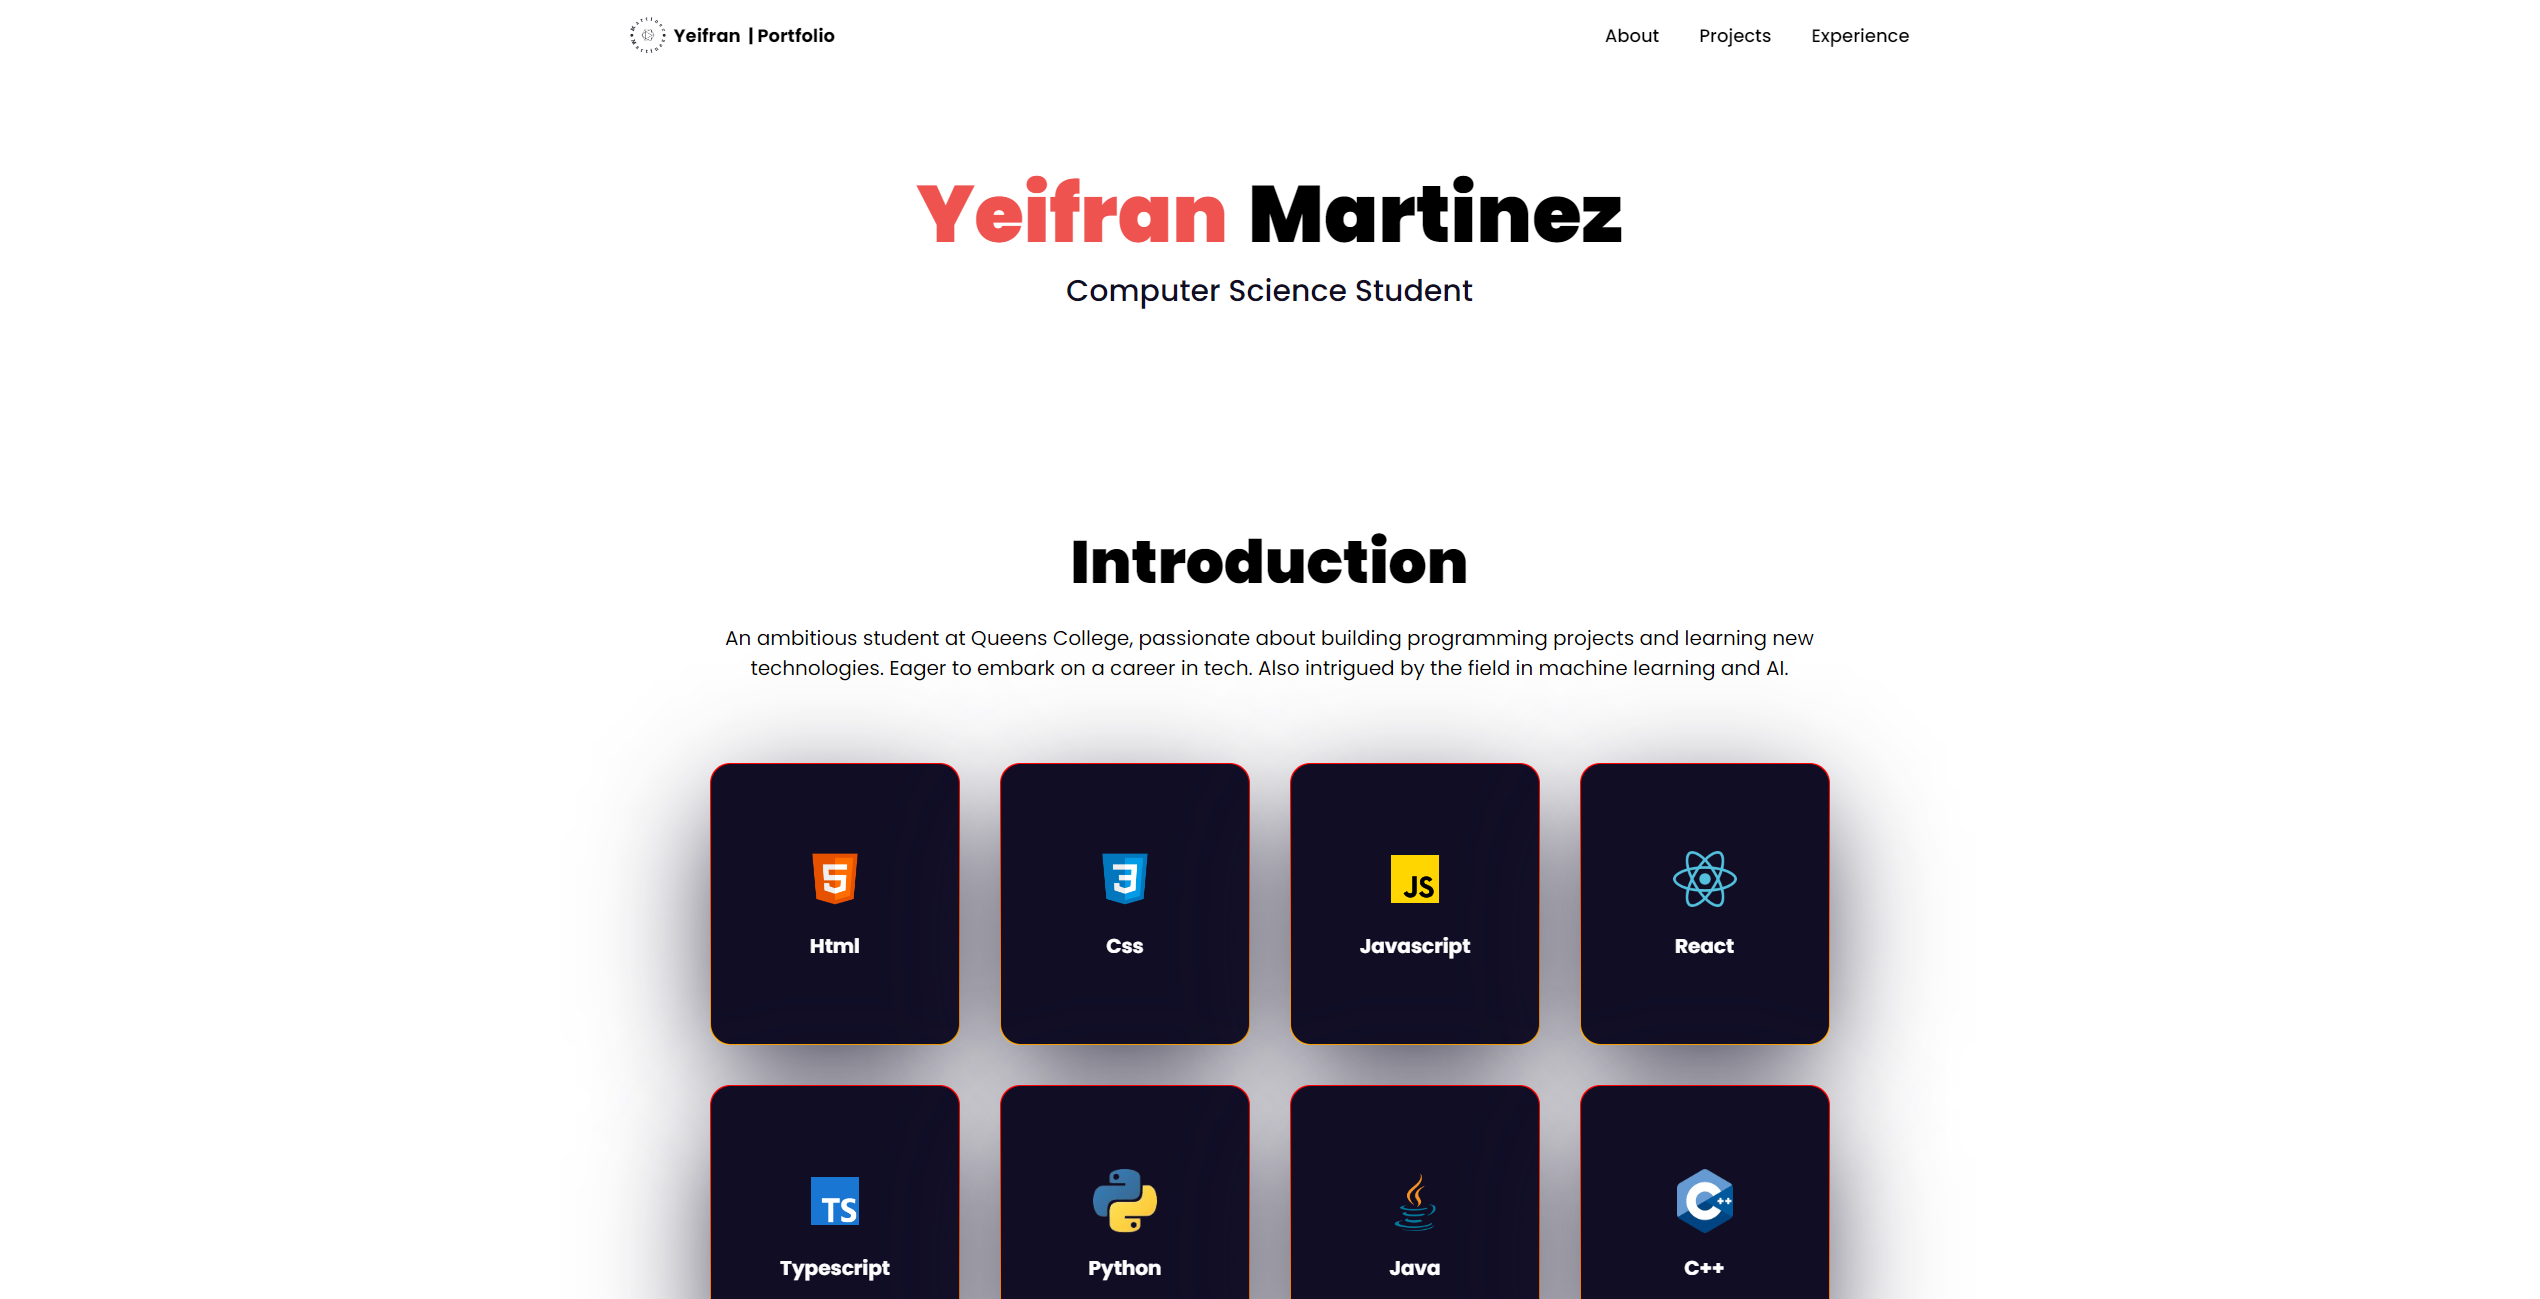
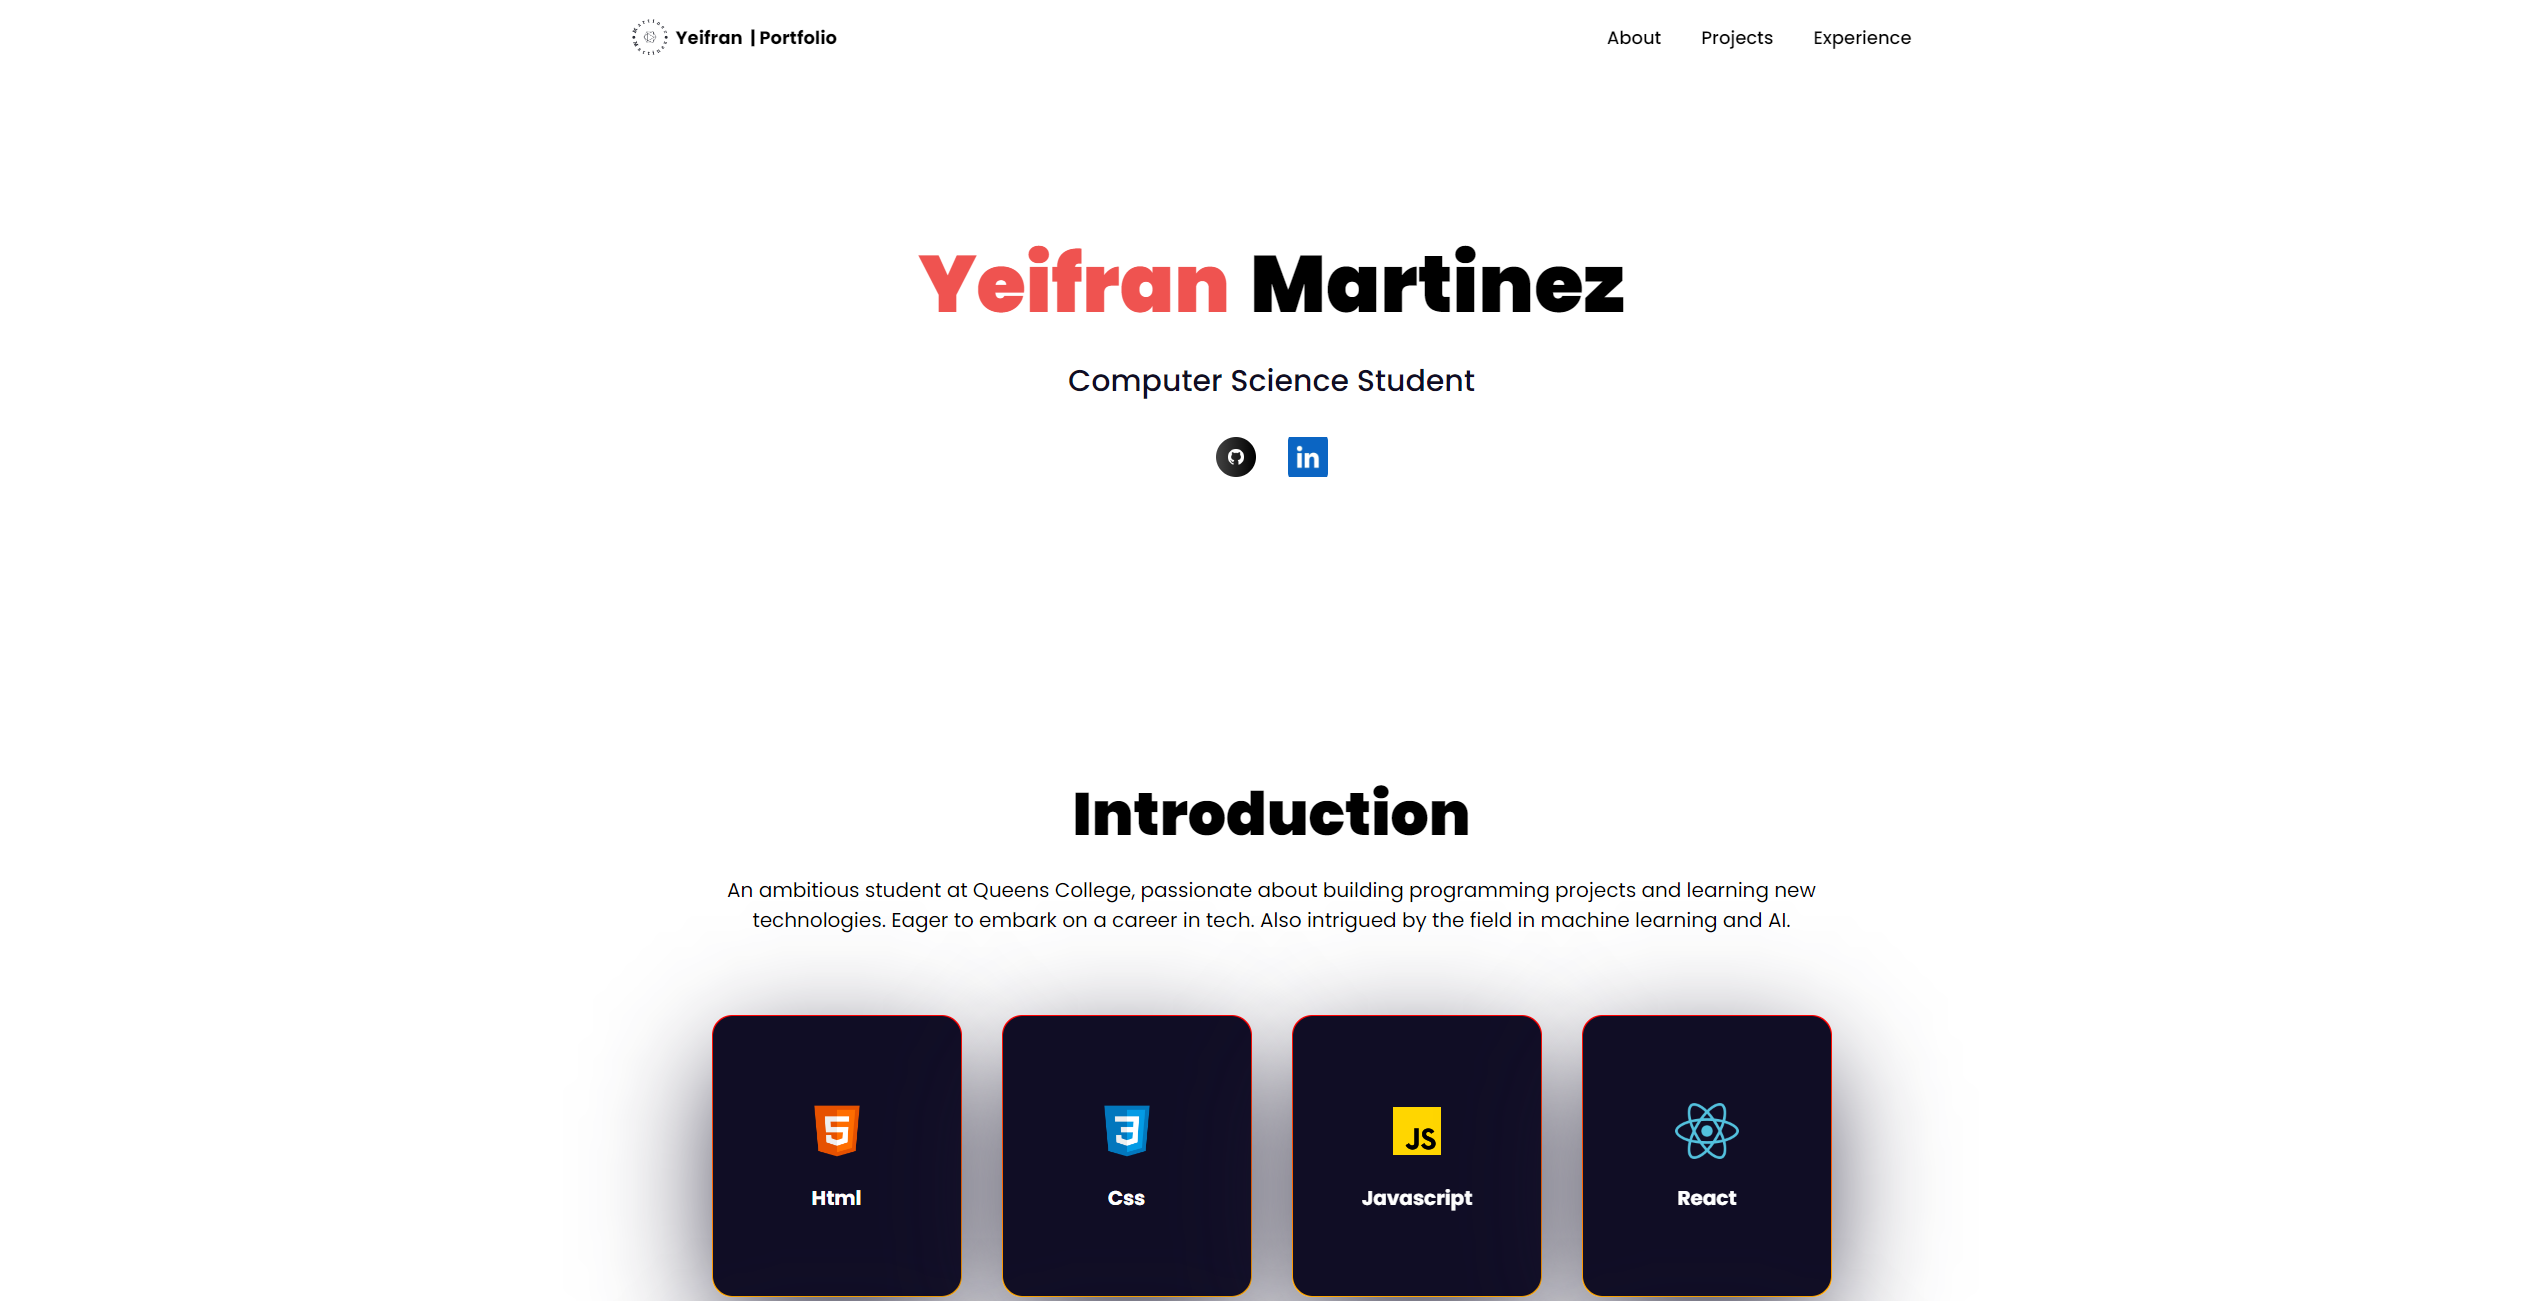
update

diff --git a/src/constants/index.js b/src/constants/index.js
@@ -64,62 +64,6 @@ import {
       icon: cpp,
     }
   ];
-
-  
-  const experiences = [
-    {
-      title: "COMING SOON",
-      company_name: "COMPANY",
-      icon: comingsoon,
-      iconBg: "#383E56",
-      date: "COMING SOON",
-      points: [
-        "Lorem ipsum dolor sit amet, consectetur adipiscing elit, sed do eiusmod tempor incididunt ut labore et dolore magna aliqua.",
-        "Ut enim ad minim veniam, quis nostrud exercitation ullamco laboris nisi ut aliquip ex ea commodo consequat.",
-        "Duis aute irure dolor in reprehenderit in voluptate velit esse cillum dolore eu fugiat nulla pariatur.",
-        "Excepteur sint occaecat cupidatat non proident, sunt in culpa qui officia deserunt mollit anim id est laborum.",
-      ],
-    },
-    {
-      title: "COMING SOON",
-      company_name: "COMPANY",
-      icon: comingsoon,
-      iconBg: "#E6DEDD",
-      date: "COMING SOON",
-      points: [
-        "Lorem ipsum dolor sit amet, consectetur adipiscing elit, sed do eiusmod tempor incididunt ut labore et dolore magna aliqua.",
-        "Ut enim ad minim veniam, quis nostrud exercitation ullamco laboris nisi ut aliquip ex ea commodo consequat.",
-        "Duis aute irure dolor in reprehenderit in voluptate velit esse cillum dolore eu fugiat nulla pariatur.",
-        "Excepteur sint occaecat cupidatat non proident, sunt in culpa qui officia deserunt mollit anim id est laborum.",
-      ],
-    },
-    {
-      title: "COMING SOON",
-      company_name: "COMPANY",
-      icon: comingsoon,
-      iconBg: "#383E56",
-      date: "COMING SOON",
-      points: [
-        "Lorem ipsum dolor sit amet, consectetur adipiscing elit, sed do eiusmod tempor incididunt ut labore et dolore magna aliqua.",
-        "Ut enim ad minim veniam, quis nostrud exercitation ullamco laboris nisi ut aliquip ex ea commodo consequat.",
-        "Duis aute irure dolor in reprehenderit in voluptate velit esse cillum dolore eu fugiat nulla pariatur.",
-        "Excepteur sint occaecat cupidatat non proident, sunt in culpa qui officia deserunt mollit anim id est laborum.",
-      ],
-    },
-    {
-      title: "COMING SOON",
-      company_name: "COMPANY",
-      icon: comingsoon,
-      iconBg: "#E6DEDD",
-      date: "COMING SOON",
-      points: [
-        "Lorem ipsum dolor sit amet, consectetur adipiscing elit, sed do eiusmod tempor incididunt ut labore et dolore magna aliqua.",
-        "Ut enim ad minim veniam, quis nostrud exercitation ullamco laboris nisi ut aliquip ex ea commodo consequat.",
-        "Duis aute irure dolor in reprehenderit in voluptate velit esse cillum dolore eu fugiat nulla pariatur.",
-        "Excepteur sint occaecat cupidatat non proident, sunt in culpa qui officia deserunt mollit anim id est laborum.",
-      ],
-    },
-  ];
   
   const projects = [
     {
@@ -226,6 +170,61 @@ import {
       ],
       image: gemstats,
       source_code_link: "https://github.com/techinezz/GemStats",
+    },
+  ];
+
+  const experiences = [
+    {
+      title: "COMING SOON",
+      company_name: "COMPANY",
+      icon: comingsoon,
+      iconBg: "#383E56",
+      date: "COMING SOON",
+      points: [
+        "Lorem ipsum dolor sit amet, consectetur adipiscing elit, sed do eiusmod tempor incididunt ut labore et dolore magna aliqua.",
+        "Ut enim ad minim veniam, quis nostrud exercitation ullamco laboris nisi ut aliquip ex ea commodo consequat.",
+        "Duis aute irure dolor in reprehenderit in voluptate velit esse cillum dolore eu fugiat nulla pariatur.",
+        "Excepteur sint occaecat cupidatat non proident, sunt in culpa qui officia deserunt mollit anim id est laborum.",
+      ],
+    },
+    {
+      title: "COMING SOON",
+      company_name: "COMPANY",
+      icon: comingsoon,
+      iconBg: "#E6DEDD",
+      date: "COMING SOON",
+      points: [
+        "Lorem ipsum dolor sit amet, consectetur adipiscing elit, sed do eiusmod tempor incididunt ut labore et dolore magna aliqua.",
+        "Ut enim ad minim veniam, quis nostrud exercitation ullamco laboris nisi ut aliquip ex ea commodo consequat.",
+        "Duis aute irure dolor in reprehenderit in voluptate velit esse cillum dolore eu fugiat nulla pariatur.",
+        "Excepteur sint occaecat cupidatat non proident, sunt in culpa qui officia deserunt mollit anim id est laborum.",
+      ],
+    },
+    {
+      title: "COMING SOON",
+      company_name: "COMPANY",
+      icon: comingsoon,
+      iconBg: "#383E56",
+      date: "COMING SOON",
+      points: [
+        "Lorem ipsum dolor sit amet, consectetur adipiscing elit, sed do eiusmod tempor incididunt ut labore et dolore magna aliqua.",
+        "Ut enim ad minim veniam, quis nostrud exercitation ullamco laboris nisi ut aliquip ex ea commodo consequat.",
+        "Duis aute irure dolor in reprehenderit in voluptate velit esse cillum dolore eu fugiat nulla pariatur.",
+        "Excepteur sint occaecat cupidatat non proident, sunt in culpa qui officia deserunt mollit anim id est laborum.",
+      ],
+    },
+    {
+      title: "COMING SOON",
+      company_name: "COMPANY",
+      icon: comingsoon,
+      iconBg: "#E6DEDD",
+      date: "COMING SOON",
+      points: [
+        "Lorem ipsum dolor sit amet, consectetur adipiscing elit, sed do eiusmod tempor incididunt ut labore et dolore magna aliqua.",
+        "Ut enim ad minim veniam, quis nostrud exercitation ullamco laboris nisi ut aliquip ex ea commodo consequat.",
+        "Duis aute irure dolor in reprehenderit in voluptate velit esse cillum dolore eu fugiat nulla pariatur.",
+        "Excepteur sint occaecat cupidatat non proident, sunt in culpa qui officia deserunt mollit anim id est laborum.",
+      ],
     },
   ];
   

diff --git a/src/components/Hero.jsx b/src/components/Hero.jsx
@@ -1,16 +1,23 @@
 import { styles } from "../styles";
 import { SectionWrapper } from "../hoc";
+import { github, linkedin } from "../assets";
 
 const Hero = () => {
   return (
-    <div className={`hero absolute inset-0 top-[120px] max-w-7xl mx-auto ${styles.paddingX} gap-5 mt-10`}>
-      <div>
-        <h1 className={`${styles.heroHeadText} flex flex-row justify-center items-center`}>
-          <span className='text-[#EF5350] mr-5'>Yeifran</span> Martinez
-        </h1>
-        <p className={`${styles.heroSubText} mt-2 text-black-100 flex flex-row justify-center items-center`}>
-          Computer Science Student
-        </p>
+    <div className={`hero top-[120px] max-w-7xl mx-auto ${styles.paddingX} gap-5 mt-10 flex flex-col items-center`}>
+      <h1 className={`${styles.heroHeadText} flex flex-row justify-center items-center`}>
+        <span className='text-[#EF5350] mr-5'>Yeifran</span> Martinez
+      </h1>
+      <p className={`${styles.heroSubText} mt-2 text-black-100 flex flex-row justify-center items-center`}>
+        Computer Science Student
+      </p>
+      <div className="flex justify-between w-full max-w-[7rem] mt-4">
+        <div onClick={() => window.open("https://github.com/techinezz")} className='black-gradient w-10 h-10 rounded-full flex justify-center items-center cursor-pointer'>
+          <img src={github} alt="Github" className="w-1/2 h-1/2 object-contain" />
+        </div>
+        <div onClick={() => window.open("https://www.linkedin.com/in/yeifran-martinez-889343291/")} className=' w-10 h-10 flex justify-center items-center cursor-pointer'>
+          <img src={linkedin} alt="linkedin" className="w-12 h-12 object-contain rounded-lg" />
+        </div>
       </div>
     </div>
   );

diff --git a/src/components/Projects.jsx b/src/components/Projects.jsx
@@ -33,12 +33,8 @@ const ProjectCard = ({
           />
 
           <div className='absolute inset-0 flex justify-end m-3 card-img_hover'>
-            <div
-              onClick={() => window.open(source_code_link, "_blank")}
-              className='black-gradient w-10 h-10 rounded-full flex justify-center items-center cursor-pointer'
-            >
-              <img
-                src={github}
+            <div onClick={() => window.open(source_code_link, "_blank")} className='black-gradient w-10 h-10 rounded-full flex justify-center items-center cursor-pointer'>
+              <img src={github}
                 alt='source code'
                 className='w-1/2 h-1/2 object-contain'
               />
@@ -74,10 +70,7 @@ const Projects = () => {
       </motion.div>
 
       <div className='w-full flex'>
-        <motion.p
-          variants={fadeIn("", "", 0.1, 1)}
-          className='mt-3 text-black text-[20px] leading-[30px] text-center'
-        >
+        <motion.p variants={fadeIn("", "", 0.1, 1)} className='mt-3 text-black text-[20px] leading-[30px] text-center'>
           These projects reflect my personal interests and mark the beginning of an exciting journey in front-end development. 
           Eager to delve deeper into this field, I look forward to exploring new technologies and learning valuable skills and techniques 
           from experienced software engineers.

diff --git a/src/assets/index.js b/src/assets/index.js
@@ -2,6 +2,7 @@ import logo from "./logo.png";
 import github from "./github.png";
 import menu from "./menu.svg";
 import close from "./close.svg";
+import linkedin from "./linkedin.jpg";
 
 import css from "./tech/css.png";
 import html from "./tech/html.png";
@@ -23,6 +24,7 @@ import comingsoon from "./company/comingsoon.jpg";
 export {
   logo,
   github,
+  linkedin,
   menu,
   close,
   css,
